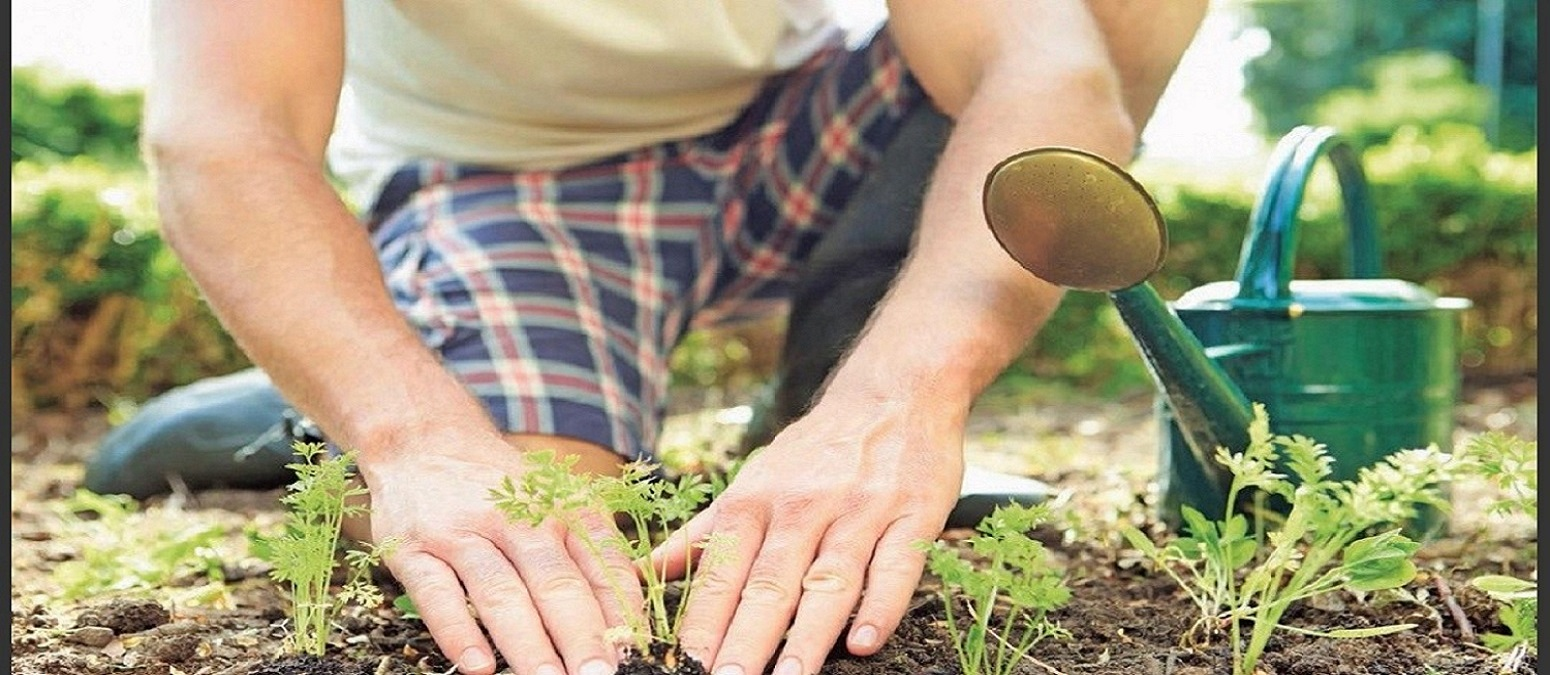
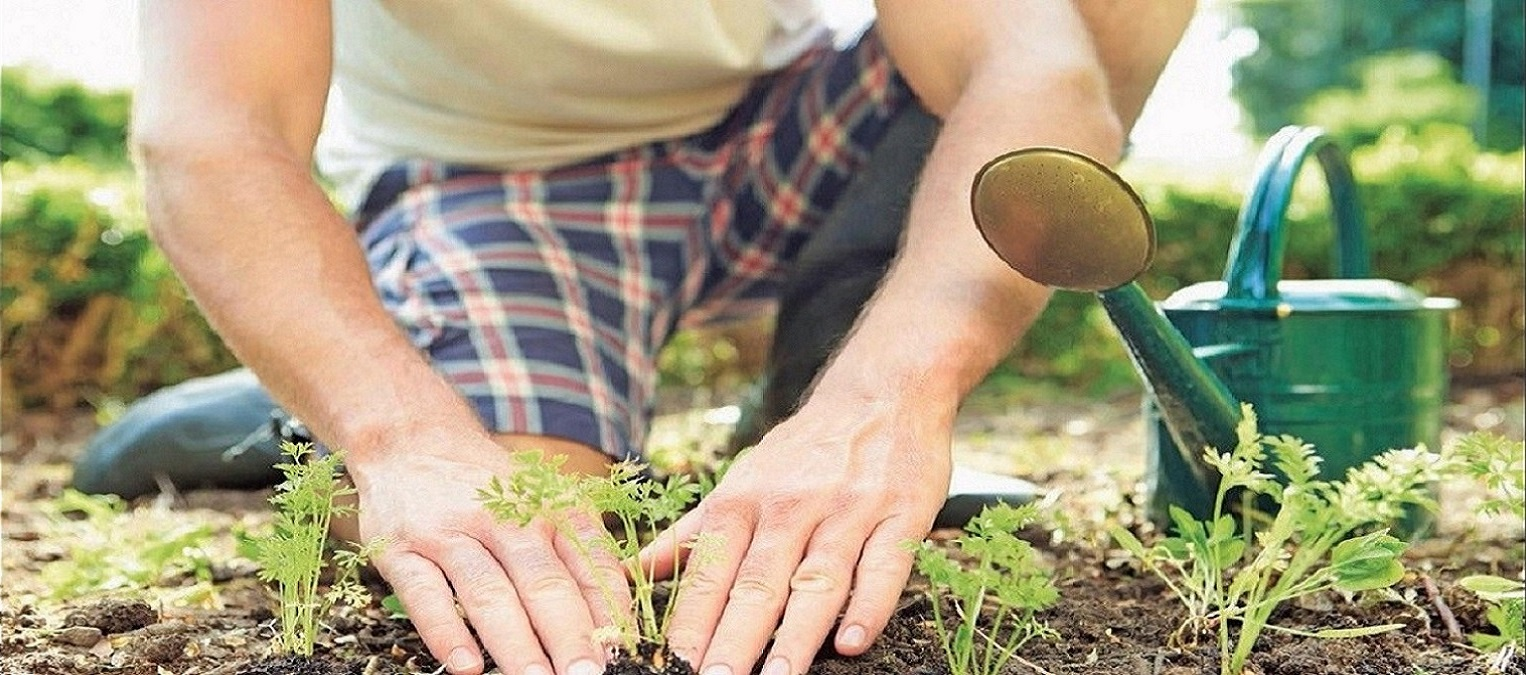
Add files via upload

diff --git a/index.html b/index.html
@@ -6,10 +6,10 @@
     <meta name="viewport" content="width=device-width, initial-scale=1.0">
     <title>Villa Ecológica</title>
     <link href="https://cdn.jsdelivr.net/npm/bootstrap@5.1.3/dist/css/bootstrap.min.css" rel="stylesheet" integrity="sha384-1BmE4kWBq78iYhFldvKuhfTAU6auU8tT94WrHftjDbrCEXSU1oBoqyl2QvZ6jIW3" crossorigin="anonymous">
-    <link rel="stylesheet" href="estilo.css">
+    <link rel="stylesheet" href="./styles/estilo.css">
 </head>
 <body class="bg-success">
-    <div id="wrapper" class="container-fluid p-0">
+    <div id="wrapper" class="p-0">
         <!-- BARRA DE NAVEGACIÓN - COMPONENTE BOOTSTRAP 5-->
         <nav class="navbar navbar-expand-lg navbar-dark bg-success position-sticky top-0 opacity-75" id="nav">
             <div class="container-fluid">
@@ -85,14 +85,14 @@
                     </ul>
                   </div>
                   <div class="col-xs-12 col-md-6 p-0 bg-info">
-                    <img src="./images/calendario-cultivo-huerto-verdecora_sinderechos.jpg" alt="" class="img-fluid" id="imginfo">
+                    <img src="./images/calendario-cultivo-huerto-verdecora_sinderechos.jpg" alt="" class="img-fluid p-2" id="imginfo">
                   </div>
                   <p class="bg-info">
                     <button class="btn btn-primary" type="button" data-bs-toggle="collapse" data-bs-target="#masinfo" aria-expanded="false" aria-controls="collapseWidthExample">
                       Más Información
                     </button>
                   </p>
-                  <div style="min-height: 120px;" class="bg-info">
+                  <div class="bg-info">
                     <div class="collapse collapse-horizontal" id="masinfo">
                       <div class="card card-body">
                         Para crear tu propio huerto ecológico, necesitarás:

diff --git a/styles/estilo.css b/styles/estilo.css
@@ -1,7 +1,10 @@
+#wrapper {
+  width: 99.74%;
+  margin: 0%;
+}
 #nav {
   z-index: 1080;
 }
 #hero {
   z-index: 1000;
-  height: 95vh;
 }
